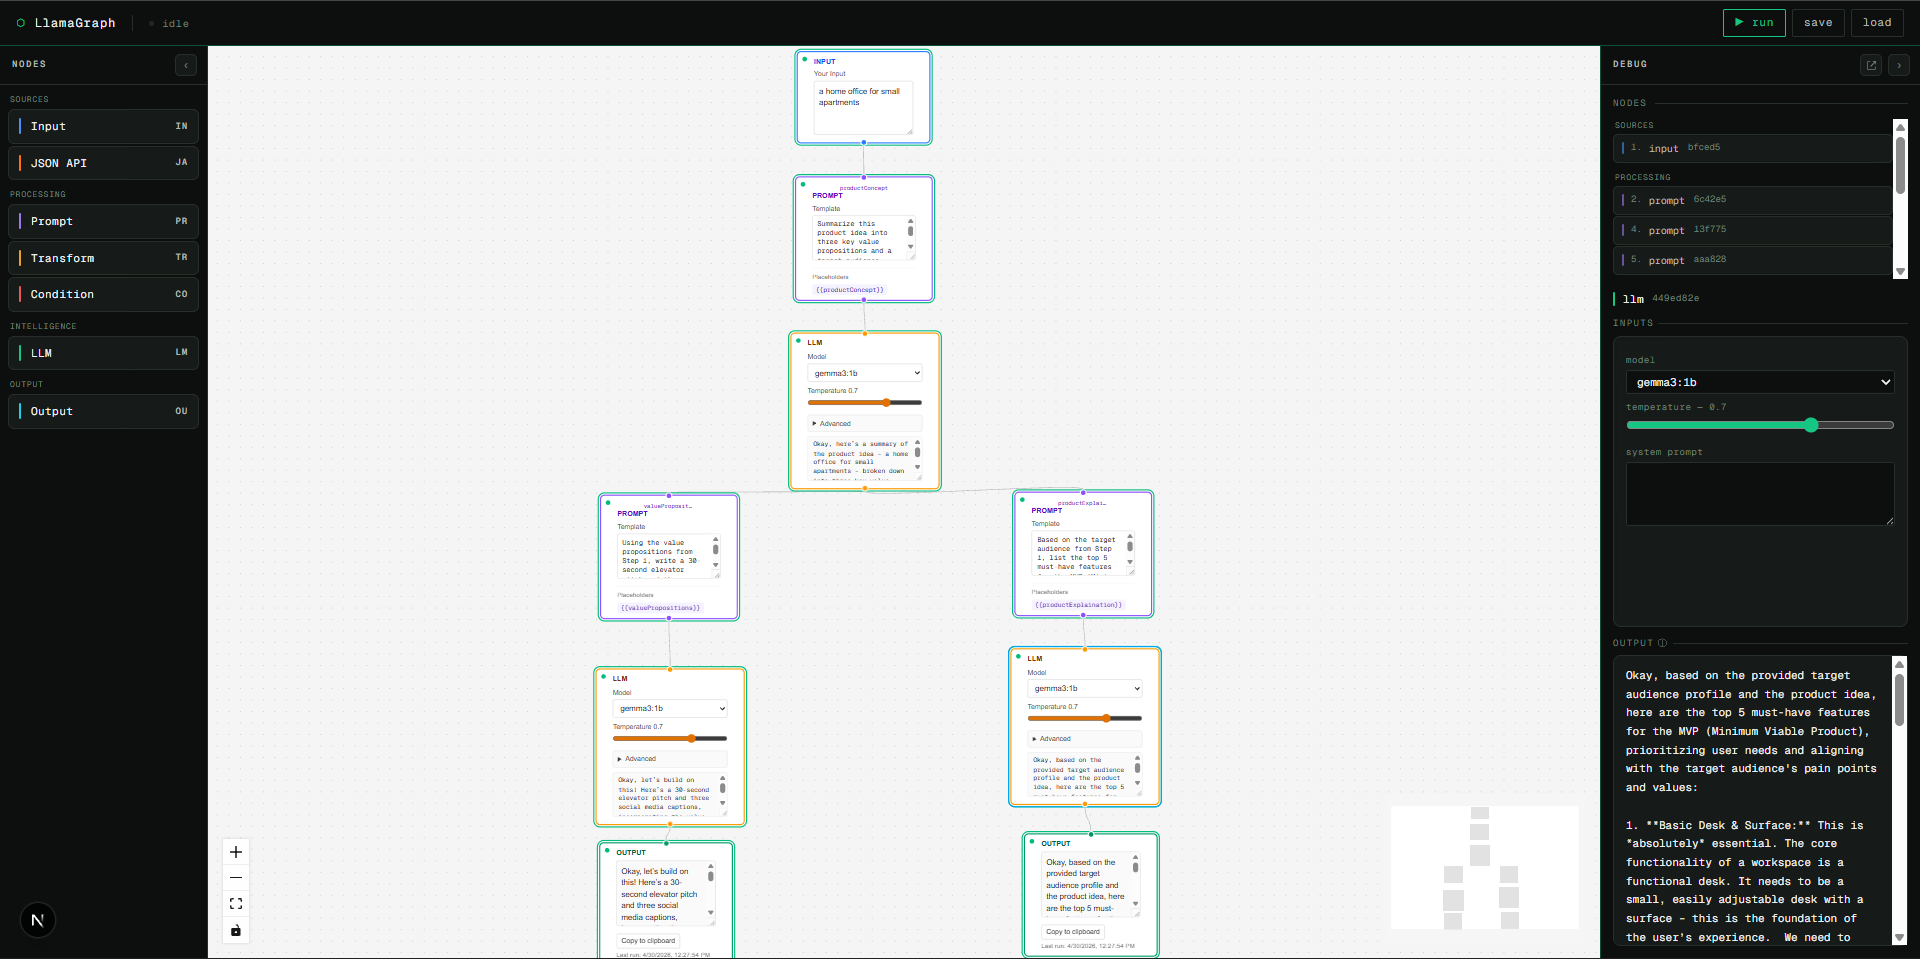
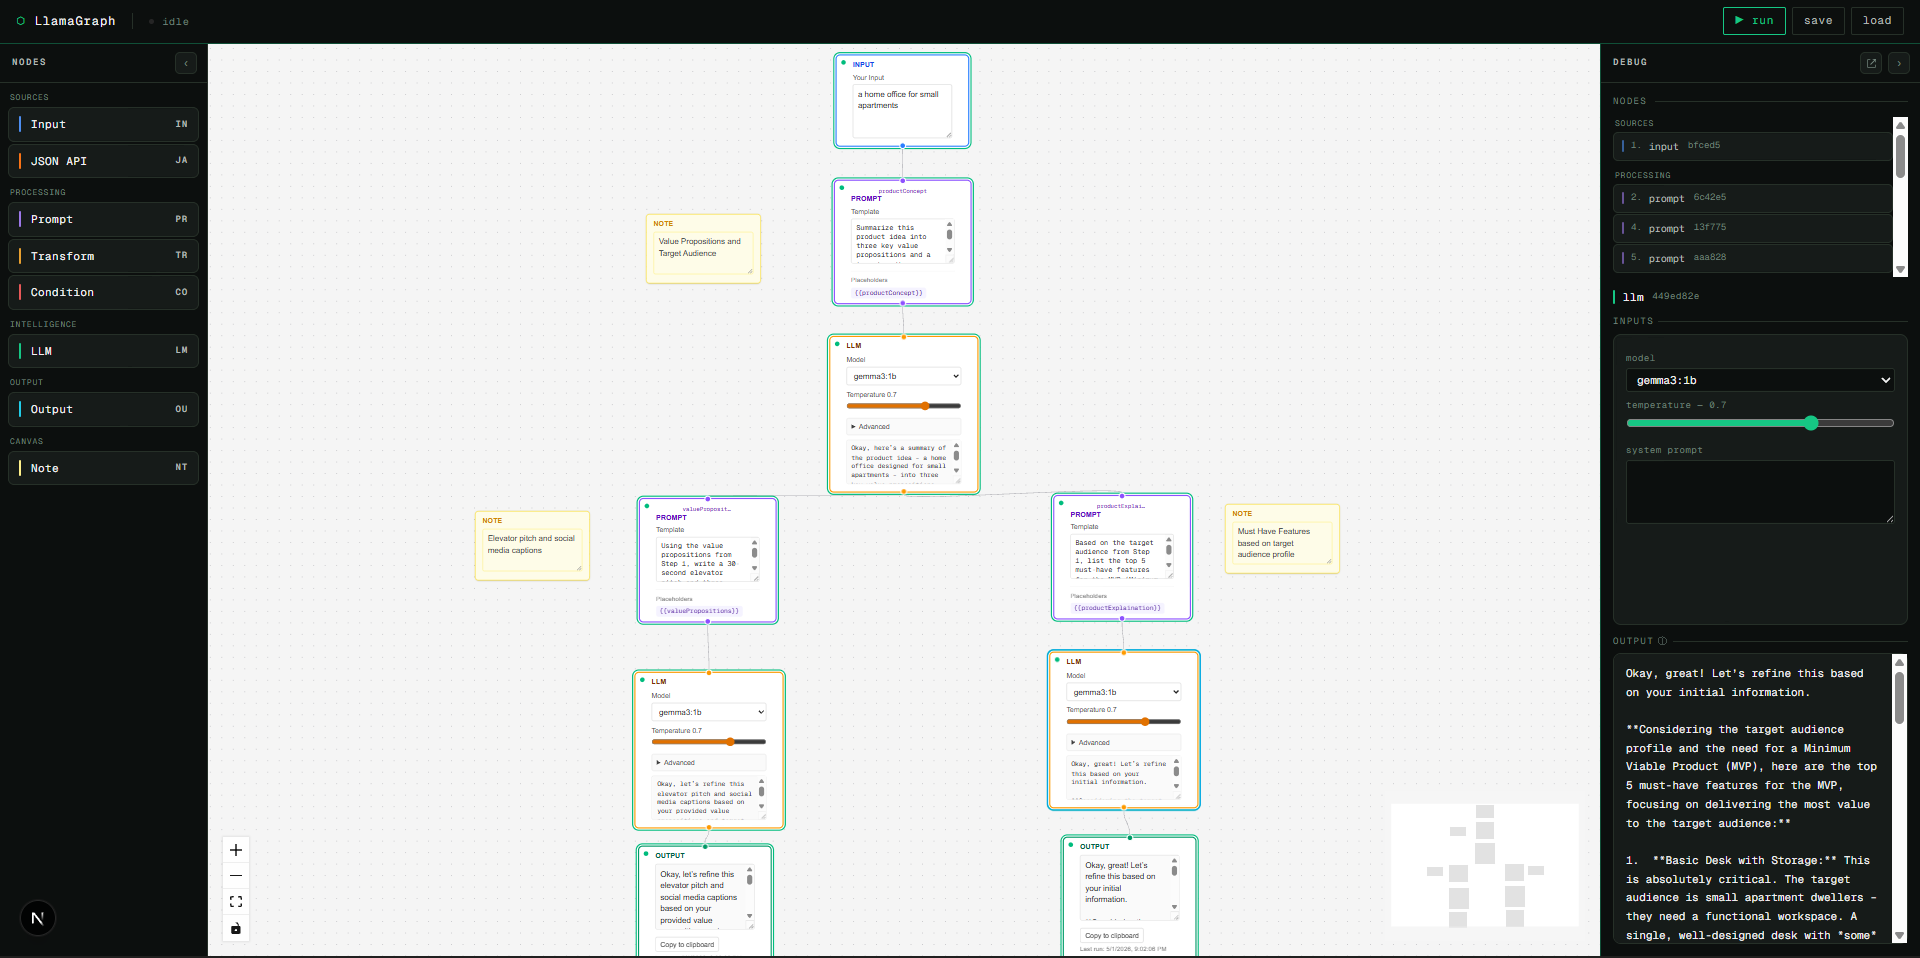
docs: add Note node docs, update screenshot and product ideation example
Document the Note/Canvas node category in README, refresh the canvas screenshot, and update the product_ideation example to include Note nodes with annotations.

diff --git a/README.md b/README.md
@@ -208,6 +208,22 @@ The Output node is the sink of the pipeline. It receives the final value from it
 
 </details>
 
+### Canvas
+
+Canvas nodes are annotations and organisational aids. They are not part of pipeline execution and carry no data connections.
+
+<details>
+<summary><strong>Note</strong> — freeform sticky note for annotating the canvas</summary>
+
+The Note node is a resizable text area you can place anywhere on the canvas to document your pipeline, leave reminders, or label sections of a complex graph. It has no handles and is never executed.
+
+- Type anything — intent, assumptions, TODO items, section labels
+- Resize the text area by dragging its bottom-right corner
+- Notes are saved in the `.llamagraph.json` file alongside the rest of the graph
+- Right-click any Note node to copy or delete it via the context menu
+
+</details>
+
 ---
 
 ## Project structure
